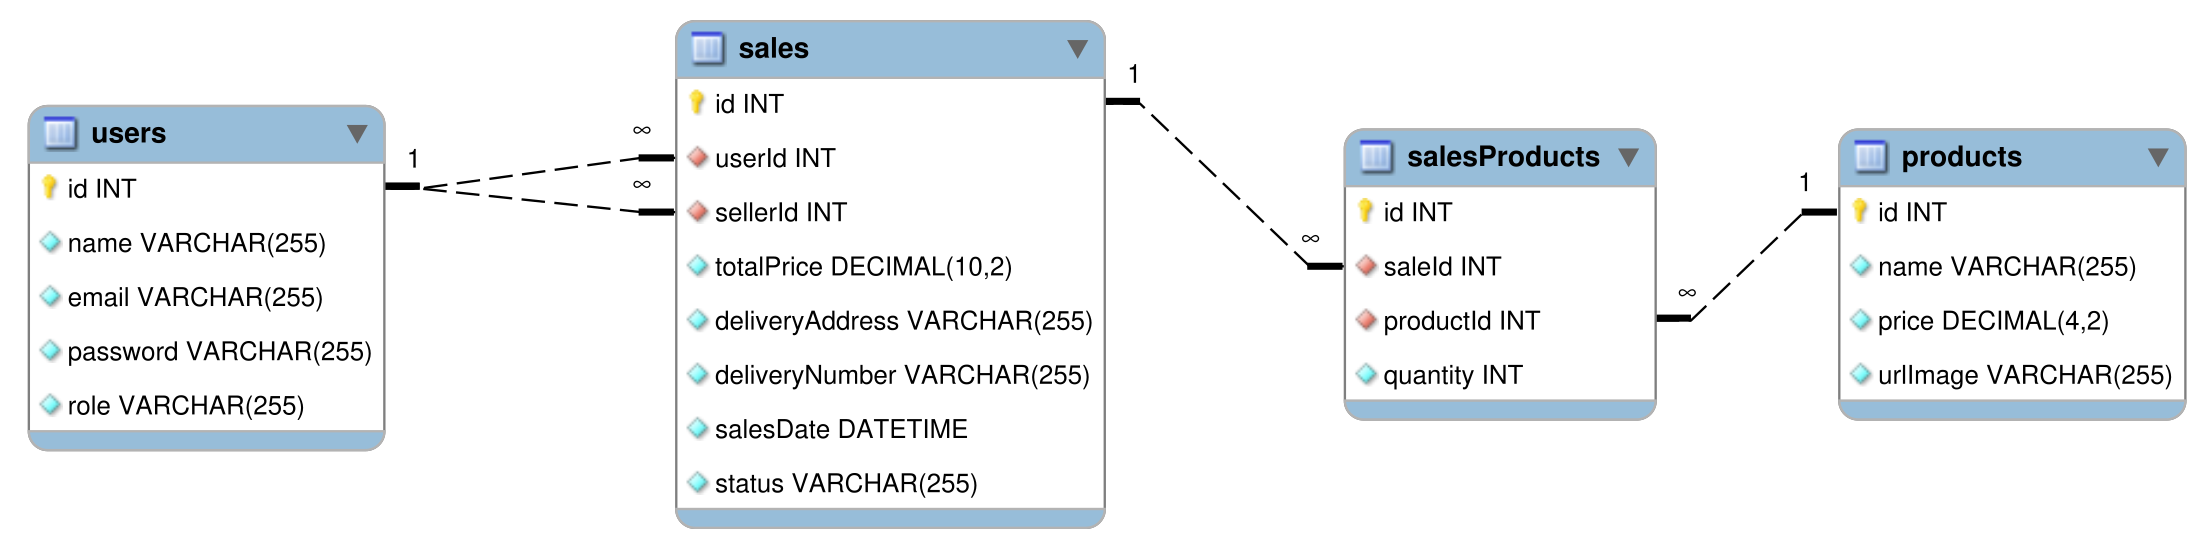
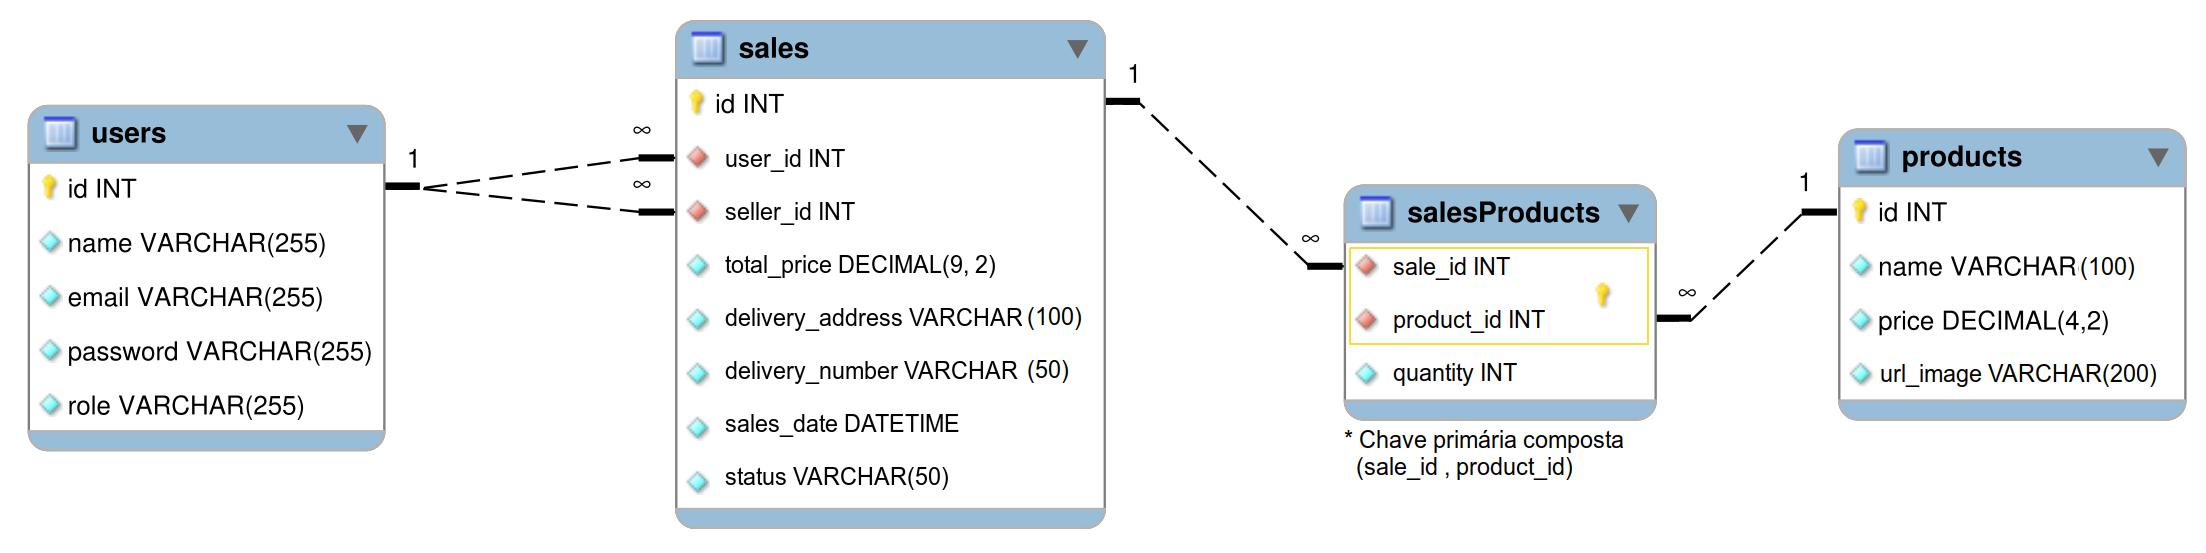
hotfix(ER schema): alinhamento do diagrama de ER com o arquivo db.example.sql

diff --git a/__tests__/entities/salesProducts/query.js b/__tests__/entities/salesProducts/query.js
@@ -1,3 +1,3 @@
-const query = 'SELECT id, saleId, productId, quantity FROM salesProducts';
+const query = 'SELECT saleId, productId, quantity FROM salesProducts';
 
 module.exports = query;
